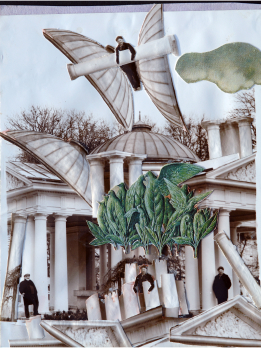
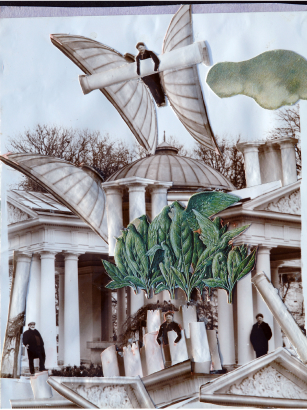
add collages styles

diff --git a/src/components/IngeniousCollagesArticle.vue b/src/components/IngeniousCollagesArticle.vue
@@ -4,7 +4,7 @@ import collage2 from 'images/ingeniousCollages/collage2.jpg';
 import collage3 from 'images/ingeniousCollages/collage3.jpg';
 import collage4 from 'images/ingeniousCollages/collage4.jpg';
 import collage5 from 'images/ingeniousCollages/collage5.jpg';
-import collage6 from 'images/ingeniousCollages/collage6.jpg';
+import collage6 from 'images/ingeniousCollages/collage6.png';
 import collage7 from 'images/ingeniousCollages/collage7.jpg';
 import collage8 from 'images/ingeniousCollages/collage8.jpg';
 import collage9 from 'images/ingeniousCollages/collage9.jpg';
@@ -12,9 +12,10 @@ import DecorativeElement1 from 'icons/ingeniousCollages/collage-decorative-elem-
 import DecorativeElement2 from 'icons/ingeniousCollages/collage-decorative-elem-2.svg?component';
 import DecorativeElement3 from 'icons/ingeniousCollages/collage-decorative-elem-3.svg?component';
 import DecorativeElement4Desk from 'icons/ingeniousCollages/collage-decorative-elem-4-desk.svg?component';
-import DecorativeElement4Mobile from 'icons/ingeniousCollages/collage-decorative-elem-4-mobile.svg?component';
+import decorativeElement4Mobile from 'icons/ingeniousCollages/collage-decorative-elem-4-mobile.jpg';
 import ArticleTitleIconDesk from 'icons/cardArticle/article-title-icon-desk.svg?component';
 import ArticleTitleIconMobile from 'icons/cardArticle/article-title-icon-mobile.svg?component';
+import DecorativeElement5 from 'icons/ingeniousCollages/collage-decorative-elem-5.svg?component';
 </script>
 
 <template>
@@ -25,7 +26,7 @@ import ArticleTitleIconMobile from 'icons/cardArticle/article-title-icon-mobile.
         <ArticleTitleIconMobile class="title-icon mobile" />
         <ArticleTitleIconDesk class="title-icon desk" />
       </div>
-      <p class="title-text">Геніальні колажі</p>
+      <p class="title-text">Геніальні<br />колажі</p>
     </div>
     <div class="article">
       <p class="article-title">спресовані фільми</p>
@@ -37,8 +38,8 @@ import ArticleTitleIconMobile from 'icons/cardArticle/article-title-icon-mobile.
     <ul class="collages-list">
       <li class="collages-list-item">
         <div class="collage-wrap">
-          <DecorativeElement1 class="collage-icon collage-icon-2" />
-          <DecorativeElement2 class="collage-icon collage-icon-3" />
+          <DecorativeElement1 class="collage-icon collage-icon-1" />
+          <DecorativeElement2 class="collage-icon collage-icon-2" />
           <img :src="collage1" alt="колаж" class="collage-img collage-img-1" />
           <div class="collage-text-wrap">
             <p class="collage-title">Назва Колажа №1</p>
@@ -56,7 +57,7 @@ import ArticleTitleIconMobile from 'icons/cardArticle/article-title-icon-mobile.
               <p class="collage-year">1967 рік</p>
             </div>
           </div>
-          <div class="collage-wrap">
+          <div class="collage-wrap second">
             <img :src="collage3" alt="колаж" class="collage-img collage-img-3" />
             <div class="collage-text-wrap">
               <p class="collage-title">Назва Колажа №3</p>
@@ -76,7 +77,7 @@ import ArticleTitleIconMobile from 'icons/cardArticle/article-title-icon-mobile.
       </li>
       <li class="collages-list-item two">
         <div class="collage-wrap two">
-          <div class="collage-wrap">
+          <div class="collage-wrap third">
             <img :src="collage5" alt="колаж" class="collage-img collage-img-5" />
             <div class="collage-text-wrap two">
               <p class="collage-title">Назва Колажа №5</p>
@@ -84,7 +85,7 @@ import ArticleTitleIconMobile from 'icons/cardArticle/article-title-icon-mobile.
             </div>
           </div>
           <div class="collage-wrap">
-            <DecorativeElement3 class="collage-icon collage-icon-3" />
+            <DecorativeElement5 class="collage-icon collage-icon-5" />
             <img :src="collage6" alt="колаж" class="collage-img collage-img-6" />
             <div class="collage-text-wrap">
               <p class="collage-title">Назва Колажа №6</p>
@@ -96,18 +97,18 @@ import ArticleTitleIconMobile from 'icons/cardArticle/article-title-icon-mobile.
       <li class="collages-list-item">
         <div class="collage-wrap">
           <DecorativeElement4Desk class="collage-icon collage-icon-4 desk" />
-          <DecorativeElement4Mobile class="collage-icon collage-icon-4 mobile" />
+          <img :src="decorativeElement4Mobile" alt="колаж" class="collage-icon collage-icon-4 mobile" />
           <img :src="collage7" alt="колаж" class="collage-img collage-img-7" />
-          <div>
-            <p>Назва Колажа №7</p>
-            <p>1967 рік</p>
+          <div class="collage-text-wrap">
+            <p class="collage-title">Назва Колажа №7</p>
+            <p class="collage-year">1967 рік</p>
           </div>
         </div>
       </li>
       <li class="collages-list-item two">
         <div class="collage-wrap two">
-          <div class="collage-wrap">
-            <DecorativeElement3 class="collage-icon collage-icon-3" />
+          <div class="collage-wrap fourth">
+            <DecorativeElement3 class="collage-icon collage-icon-4" />
             <img :src="collage8" alt="колаж" class="collage-img collage-img-8" />
             <div class="collage-text-wrap two">
               <p class="collage-title">Назва Колажа №8</p>
@@ -153,59 +154,146 @@ import ArticleTitleIconMobile from 'icons/cardArticle/article-title-icon-mobile.
   display: block;
 }
 
-.mobile {
-}
-.desk {
-}
 .title-text {
+  color: #353b3f;
+  font-family: Shnobel;
+  font-size: 40px;
+  font-weight: 400;
+  line-height: 1.2;
+  text-transform: uppercase;
 }
+
 .article {
+  margin-top: 44px;
 }
+
 .article-title {
+  color: #373730;
+  font-family: Shnobel;
+  font-size: 28px;
+  font-weight: 400;
+  line-height: 1.2;
+  text-transform: uppercase;
 }
+
 .article-text {
+  margin-top: 16px;
+  color: #373730;
+  font-family: Geologica;
+  font-size: 18px;
+  font-weight: 300;
+  line-height: 1.4;
 }
+
 .collages-list {
+  margin-top: 80px;
 }
-.collages-list-item {
+
+.collages-list-item:not(:first-child) {
+  margin-top: 48px;
 }
+
 .collage-wrap {
+  position: relative;
 }
-.collage-icon {
+
+.collage-icon-1 {
+  position: absolute;
+  top: -29px;
+  left: 33px;
+  display: block;
 }
+
 .collage-icon-2 {
+  position: absolute;
+  top: -29px;
+  left: 281px;
+  display: block;
 }
-.collage-icon-3 {
-}
+
 .collage-img {
+  position: relative;
+  max-width: 100%;
+  height: auto;
 }
-.collage-img-1 {
-}
+
 .collage-text-wrap {
+  display: flex;
+  flex-direction: column;
+  gap: 8px;
+  margin-top: 8px;
 }
+
 .collage-title {
+  color: #373730;
+  font-family: Geologica;
+  font-size: 18px;
+  font-weight: 300;
+  line-height: 1.4;
 }
+
 .collage-year {
+  color: #373730;
+  font-family: Geologica;
+  font-size: 18px;
+  font-weight: 300;
+  line-height: 1.4;
 }
-.two {
+
+.collage-icon-3 {
+  position: absolute;
+  top: -36px;
+  left: 142px;
+  display: block;
 }
+
 .collage-img-2 {
+  width: 307px;
+  height: 433.33px;
 }
-.collage-img-3 {
+
+.collage-wrap.second {
+  width: 307px;
+  margin-top: 48px;
+  margin-left: auto;
 }
-.collage-img-4 {
+
+.collage-wrap.third {
+  width: 314px;
+  margin-left: auto;
 }
-.collage-img-5 {
+
+.collage-wrap.third + .collage-wrap {
+  position: relative;
+  margin-top: 48px;
 }
-.collage-img-6 {
+
+.collage-icon-5 {
+  position: absolute;
+  top: -23px;
+  left: 142px;
+  display: block;
 }
+
+.collage-icon-4.mobile {
+  display: block;
+  margin-left: auto;
+}
+
+.collage-wrap.fourth {
+  width: 307px;
+  margin-left: auto;
+}
+
 .collage-icon-4 {
+  position: absolute;
+  top: -36px;
+  left: 101px;
+  display: block;
 }
-.collage-img-7 {
-}
-.collage-img-8 {
-}
-.collage-img-9 {
+
+.collage-wrap.fourth + .collage-wrap {
+  margin-top: 48px;
 }
 
 @media screen and (min-width: 1280px) {
@@ -222,6 +310,24 @@ import ArticleTitleIconMobile from 'icons/cardArticle/article-title-icon-mobile.
   .title-icon.mobile {
     display: none;
   }
+
+  .title-text {
+    width: 420px;
+    font-size: 72px;
+  }
+
+  .article {
+    display: flex;
+    justify-content: space-between;
+    align-items: flex-end;
+    margin-top: 44px;
+    margin-bottom: 24px;
+  }
+
+  .article-text {
+    flex-shrink: 0;
+    width: 419px;
+  }
 }
 
 @media screen and (max-width: 1280px) {
@@ -232,6 +338,14 @@ import ArticleTitleIconMobile from 'icons/cardArticle/article-title-icon-mobile.
   }
 
   .title-icon.desk {
+    display: none;
+  }
+
+  .title-icon.desc {
+    display: none;
+  }
+
+  .collage-icon-4.desk {
     display: none;
   }
 }
